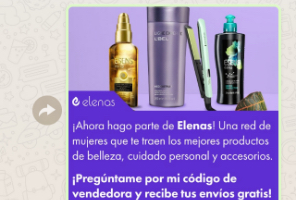
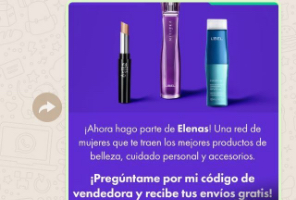
no message

diff --git a/src/native/components/Onboarding.js b/src/native/components/Onboarding.js
@@ -26,10 +26,10 @@ const onboardingPages = [
     callToAction: "Compartir mensaje",
     action: async () => {
       // TODO: change content
-      let message = "Hola soy embajadora"
-      let fileNames = ["Providers_1024x1024.jpg"]
-      let priceTags = [""]
-      images = ["https://cdn.shopify.com/s/files/1/0009/1186/7955/files/Providers_1024x1024.jpg?v=1542751666"]
+      let message = "¡Hola, te presento a Elenas!";
+      let fileNames = ["IntroMsg.png"];
+      let priceTags = [""];
+      images = ["https://s3.amazonaws.com/elenas-app/IntroMsg%402x.png"];
       await Share.share(message, fileNames, priceTags, images);
     },
     image: require("../assets/images/onboarding-1.jpg"),
@@ -42,7 +42,14 @@ const onboardingPages = [
       "Los productos más vendidos son una manera segura de despertar el interés de tus posibles clientes. Compártelos con quienes creas que les interese.",
     borderedButton: true,
     callToAction: "Compartir productos",
-    action: () => {},
+    action: async () => {
+      // TODO: change content
+      let message = "¡Conoce los productos más vendidos en Elenas!";
+      let fileNames = ["IntroMsg.png"];
+      let priceTags = [""];
+      images = ["https://s3.amazonaws.com/elenas-app/IntroMsg%402x.png"];
+      await Share.share(message, fileNames, priceTags, images);
+    },
     image: require("../assets/images/onboarding-2.jpg"),
     color: Colors.brandPrimary
   },
